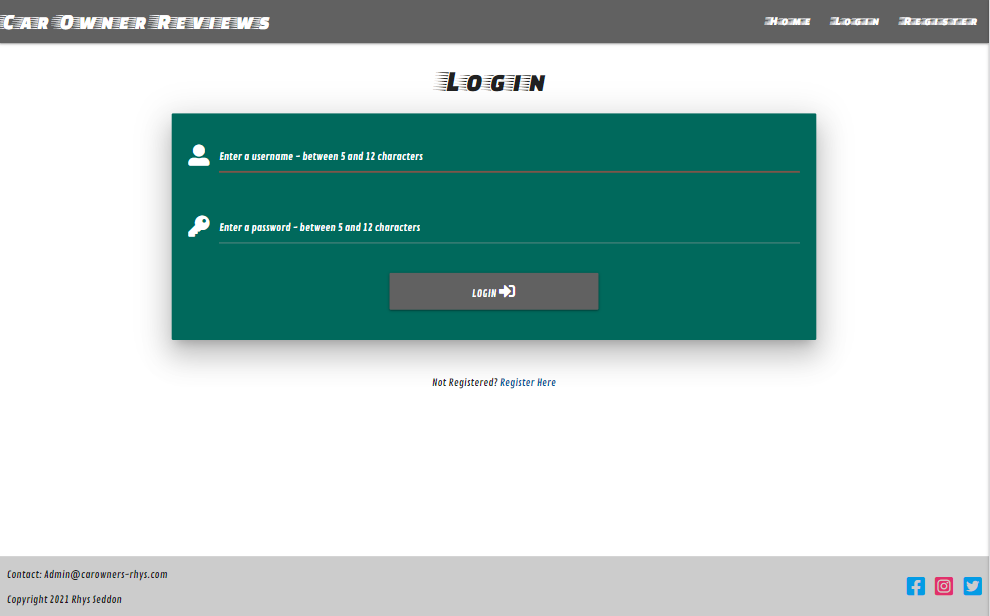
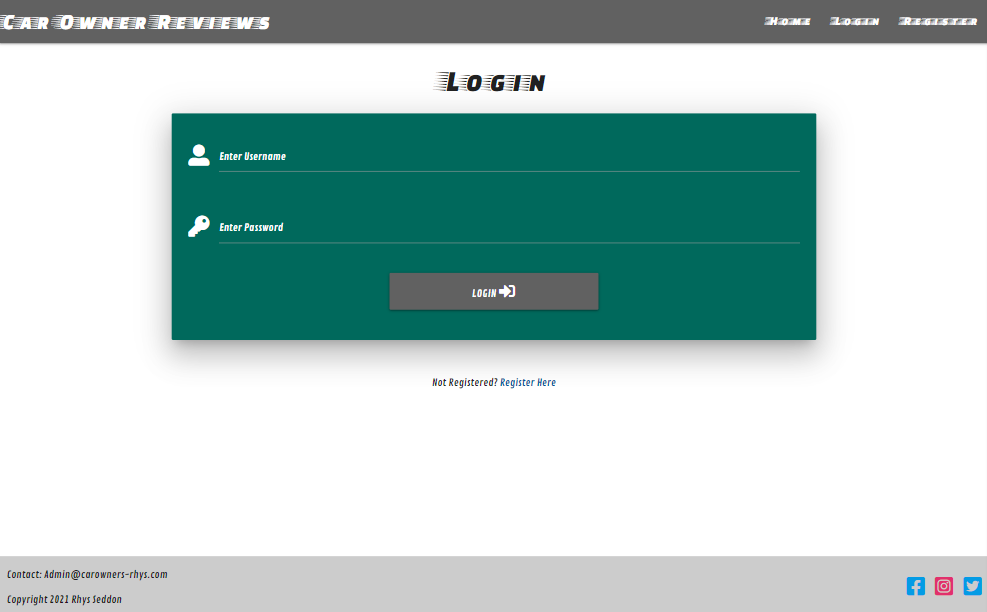
Add password confirmation information to README.md and TESTING.md

diff --git a/templates/register.html b/templates/register.html
@@ -12,7 +12,7 @@
                         <i class="fas fa-user-plus prefix white-text"></i>
                         <input id="username" name="username" type="text" minlength="5" maxlength="50"
                             pattern="^[a-zA-Z0-9@.]{5,50}$" class="validate" required>
-                        <label for="username" class="white-text">Enter new username</label>
+                        <label for="username" class="white-text">Enter New Username</label>
                     </div>
                 </div>
                 <!-- Password input -->
@@ -21,8 +21,8 @@
                         <i class="fas fa-key prefix white-text"></i>
                         <input id="password" name="password" type="password" minlength="5" maxlength="12"
                             pattern="^[a-zA-Z0-9]{5,12}$" class="validate" required>
-                        <label for="password" class="white-text">Enter password 5-12
-                            characters</label>
+                        <label for="password" class="white-text">Enter Password 5-12
+                            Characters</label>
                     </div>
                 </div>
                 <!-- Confirm password input -->
@@ -31,7 +31,7 @@
                         <i class="fas fa-key prefix white-text"></i>
                         <input id="confirm_password" name="confirm_password" type="password" minlength="5" maxlength="12"
                             pattern="^[a-zA-Z0-9]{5,12}$" class="validate" required>
-                        <label for="confirm_password" class="white-text">Confirm password</label>
+                        <label for="confirm_password" class="white-text">Confirm Password</label>
                     </div>
                 </div>
                 <!-- Register button -->

diff --git a/templates/login.html b/templates/login.html
@@ -12,7 +12,7 @@
                         <i class="fas fa-user-alt prefix white-text"></i>
                         <input id="username" name="username" type="text" minlength="5" maxlength="12"
                             pattern="^[a-zA-Z0-9]{5,12}$" class="validate" required>
-                        <label for="username" class="white-text">Enter username</label>
+                        <label for="username" class="white-text">Enter Username</label>
                     </div>
                 </div>
                 <!-- Password input -->
@@ -21,7 +21,7 @@
                         <i class="fas fa-key prefix white-text"></i>
                         <input id="password" name="password" type="password" minlength="5" maxlength="12"
                             pattern="^[a-zA-Z0-9]{5,12}$" class="validate" required>
-                        <label for="password" class="white-text">Enter password</label>
+                        <label for="password" class="white-text">Enter Password</label>
                     </div>
                 </div>
                 <!-- Login button -->

diff --git a/static/css/style.css b/static/css/style.css
@@ -86,16 +86,23 @@ footer .row {
 @media (max-width: 500px) {
 /* Styles brand logo in mobile view */
 nav .brand-logo {
-font-size: 1.3rem;
-}
-
-/* Styles small buttons in mobile view */
-.btn-small {
-    padding: 0px 5px;
+font-size: 1.8rem;
 }
 
 /* Styles footer content in mobile view */
 footer .row .col {
     padding: 0px 10px;
+}
+}
+
+/* Tablet view */
+@media (max-width: 1200px) {
+/* Styles nav titles in tablet view */
+nav .brand-logo {
+font-size: 1.6rem;
+}
+
+.nav-links li a {
+    font-size: 1rem
 }
 }

diff --git a/templates/base.html b/templates/base.html
@@ -23,9 +23,7 @@
     {% endblock %}
     <title>Car Owner Reviews</title>
 </head>
-
 <body>
-
     <header>
         <nav class="nav-extended grey darken-2">
             <!-- Navbar  -->

diff --git a/README.md b/README.md
@@ -61,9 +61,9 @@ The reason for creating this project is for my third milestone project for a sof
 ### Visiting users
 
 As a visiting user I want to:
--	"Instantly understand the purpose of the website"
+-	"Instantly understand the purpose of the website."
 -	"Be able to swiftly decipher site navigation."
--	"Find out how good a particular car is?"
+-	"Find out how good a particular car is."
 -	"Be able to register and become a member to post my own review."
 
 ### Returning users
@@ -72,24 +72,26 @@ As a returning user I would like to:
 -	"Be able to login and see my profile."
 -	"Be able to delete and edit my old reviews."
 -	"Write a new review."
--	"Be able to log back out again."
+-	"Be able to log out again."
 
 ### Admin users
 
 As an admin user I require the ability to:
 -   "Log in as an admin user."
 -   "Delete or edit all member reviews."
--   "Search all members reviews."
--   "Create, edit and delete the makes of the cars"
+-   "Search all member reviews."
+-   "Create, edit and delete the makes of the cars."
 
 # UX
 
 ## Strategy
 
-As the site owner my goal is to create a place for car owners to share their experience of owning a particular car and provide this information clearly to other users of the site.  To achieve this, I aim provide users with the ability to:
+As the site owner my goal is to create a place for car owners to share their experience of owning a particular car 
+and provide this information clearly to other users of the site.  To achieve this, 
+I aim to provide users with the ability to:
 -	Add their own reviews.
 -	Browse other users’ reviews.
--	Search other users’ reviews.
+-	Search other users’ reviews.  
 The target audience for the site will be:
 -	Users that want to inform everyone of how good or bad their car is.
 -	Users that are looking to buy a new car and require impartial information.
@@ -100,28 +102,28 @@ The target audience for the site will be:
 The user should:
 -	Be able to navigate the site easily.
 -	Expect the site to load quickly.
--	Read other users reviews.
+-	Read other user's reviews.
 -	Create, read, update and delete their own reviews.
 
 ## Scope
 
 Based upon the strategy the features and functionality I want to include are as follows:
--	Car related hero image
+-	Car related hero image.
 -	A paragraph welcoming the user and explaining the websites purpose.
 -	Ability to register, login and logout.
 -	A search box where the user can search for reviews.
 -	An accordion containing all the reviews so the user can browse through them.
--	An accordion containing the current profile owners’ reviews.
--	Ability for the user create, read, edit or delete their reviews.
--	A form for the user to fill out containing the make, model, year and review.
+-	An accordion containing the current profile owner's reviews.
+-	Ability for the user to create, read, edit or delete their reviews.
+-	A form for the user to fill out containing the make, model, year and review text.
 -	Ability for the user to rate the car from 0 to 5.
--	A form with the ability to edit make, model, year and review.
+-	A form with the ability to edit make, model, year and review text.
 -	A page containing all the makes with options to delete or edit them for the admin user.
 
 ## Database
 
-To enable create read update an delete functionality the website will require a non-relational data base (No SQL).
-The data base will have three collections:
+To enable create, read, update an delete functionality the website will require a non-relational data base (No SQL).
+The database will have three collections:
 
 ### Users
 
@@ -390,26 +392,26 @@ Functional and modern colour scheme, with a white background to keep clean UX.
 -	Page name on the left-hand side.
 -	Navigation links on the right-hand side.
 -	Navbar colour will be materialize class colour teal darken-2.
--	The navbar links will differ depending on if and who is logged in and on what page. (see each page)
+-	The navbar links will differ depending on if and who is logged in and on what page. (see each page).
 
 ### Footer
 
 -	All pages will contain the same footer.
--	Containing contact and copyright information on the left and social media links on the right.
+-	Footer contains contact and copyright information on the left and social media links on the right.
 
 ### Home Page
 
 -	Car related full width hero image at the top of the page.
 -	A paragraph welcoming the user and explaining the websites purpose with buttons to register and login below.
--	A search box with the title “search reviews”, where the user can search through all reviews.
+-	A search box with the title “Search Reviews”, where the user can search through all reviews.
 -	An accordion with the title “All Reviews” containing all the reviews so the user can browse through them.
 -	Each dropdown will have the title of the make and model of car and the year.
 -	Each dropdown will contain the information:
     * Make
     * Model
     * Year
-	* Review
-	* Rating out of 5.
+	* Review text
+	* Rating out of 5
 
 Nav Links:  
 Logged out – Home | Login | Register.  
@@ -418,15 +420,15 @@ Admin – Home | Profile | New Review | Manage Makes | Logout.
 
 ### Profile Page
 
--	Main title of Users Profile and below to the left “Your Reviews” 
--	Accordion containing the current profile owners’ reviews.
+-	Main title of User's Profile and below to the left “Your Reviews” 
+-	Accordion containing the current profile owner's reviews.
 -	Each dropdown will have the title of the make and model of car and the year.
 -	Each dropdown will contain the information:
     * Make
     * Model
     * Year
-	* Review
-	* Rating out of 5.
+	* Review text
+	* Rating out of 5
 -	Buttons so they can edit and delete their reviews on the accordion.
 -	Central button below that links to new review page.
 
@@ -441,7 +443,7 @@ Admin – Home | Profile | New Review | Manage Makes | Logout.
     *   A dropdown containing all the car makes for the user to select.
     *   Model input field.
     *   Year input field.
-    *   Review input field.
+    *   Review text input field.
     *	Input field for the user to rate the car from 0 to 5.
     *	A central save button below.
 
@@ -454,6 +456,7 @@ Admin – Home | Profile | New Review | Manage Makes | Logout.
 -	Title of “Login”
 -	Central container with 2 text boxes for the user to enter their username and password.
 -	Text boxes will have the labels username and password with suitable icons on the left of the labels.
+-   Users will be warned of incorrect username or password.
 -	Login button.
 -	A link to register if not already registered.
 
@@ -466,6 +469,9 @@ Logged out – Home | Login | Register.
 -	Central container with 2 text boxes for the user to enter their username and password.
 -	Text boxes will have the labels username and password with suitable icons on the left of the labels.
 -	Save button.
+-   Users will be warned if username is already taken.
+-   Users will be prompted to enter password twice.
+-   Users will be warned if passwords entered do not match.
 -	A link to login if already registered.
 
 Nav links:  
@@ -478,7 +484,7 @@ Logged out – Home | Login | Register.
     *   A dropdown containing all the car makes for the user to select.
     *   Model input field.
     *   Year input field.
-    *   Review input field.
+    *   Review text input field.
     *	Input field for the user to rate the car from 0 to 5.
     *	A central save and cancel button below.
 
@@ -489,11 +495,11 @@ Admin – Home | Profile | New Review | Manage Makes | Logout.
 
 ### Manage Makes Page (Admin Only)
 
--	Title of “Manage Makes"
--	Sub heading "Add New Make"
+-	Title of “Manage Makes".
+-	Sub heading "Add New Make".
 -   Central text input to insert a new make.
 -   Central "Save Make" button.
--   Sub Heading "Edit Make"
+-   Sub Heading "Edit Make".
 -   Card Panels containing all of the makes in the DB.
 -   Edit and delete button inside each card panel.
 
@@ -525,6 +531,11 @@ reviews accidentally.
 - The modal should contain the title "Are You Sure You Want To Delete?"
 - Centralised cancel and delete buttons.
 
+#### Password Confirmation
+
+- Users will be asked to enter their passwords twice upon registering to verify the password they entered 
+was entered correctly.
+
 ### Features To Add In The Future
 -	The ability to upload pictures to the profiles, these could be of the car or the user or both.
 -	Star rating system where user can click a radio button of stars 1 to 5. 
@@ -535,9 +546,9 @@ reviews accidentally.
 
 ### Languages 
 
-- Html: Used for the site structure.
+- HTML: Used for the site structure.
 - CSS: Used for adding styles to the website.
-- Javascript: Used to add the games interactive features.
+- Javascript: Used to add the website interactive features.
 - Python: Used to handle the backend functionality.
 
 ### Libraries
@@ -569,7 +580,7 @@ Input Fields | For add text user input
 
 #### JQuery
 
-Used for event handling and validating the choose make input on the new review form.
+Used for event handling and validating the "choose make" input on the new review form.
 
 ### IDE and Hosting
 
@@ -600,7 +611,7 @@ All used to help with the development of the backend of the website:
 - [Google.com/test/mobile-friendly](http://Search.google.com/test/mobile-friendly) - Used for testing the website mobile responsiveness.
 - Google Chrome DevTools - Used for testing website responsiveness.
 - [Randomkeygen.com](https://randomkeygen.com/) - Used for generating a random secret key.
-- [Pep8online.com/](http://pep8online.com/) - Used for validating python code.
+- [Pep8online.com/](http://pep8online.com/) - Used for validating Python code.
 
 ## Testing
 For the testing page [(click Here)](TESTING.md)
@@ -611,7 +622,7 @@ All names should be relevant and as consistent as possible to enable the reader 
 - Javacript functions are written in camelCase. 
 - Class and IDs are written in lowercase and multi word names are joined with a hyphen.
 - File names and image names are written in lowercase and multi word names are joined with a hyphen.
-- Multi word Python function and variable news are joined with an underscore. 
+- Multi word Python function and variable names are joined with an underscore. 
 
 ### Code Validation
 
@@ -715,7 +726,7 @@ The live Heroku deployment can be found [Here](https://car-owner-reviews-ms3-pro
 
 ### Acknowledgements
 
-- Friends and family for their honest opinions and checking responsiveness on there devices.
+- Friends and family for their honest opinions and checking responsiveness on their devices.
 - Code Institute Slack Channel for valuable guidance and opinions.
 - Mentor Rohit Sharma for his excellent guidance and advice.
 

diff --git a/TESTING.md b/TESTING.md
@@ -190,8 +190,9 @@ Display:
 - Must retain the basic layout and remain responsive on all screen sizes.
 - Must have the central title "REGISTER"
 - Central card panel form should display.
-- Username input with icon and placeholder "Please enter a username - between 5 and 12 characters"  
-- Password input with icon and placeholder "Please enter a password - between 5 and 12 characters"
+- Username input with icon and placeholder "Enter New Username"  
+- Password input with icon and placeholder "Enter Password 5 - 12 Characters"
+- Confirm Password input with icon and placeholder "Confirm Password"
 - Central "REGISTER" button.
 - Below card panel centrally must read "Already Registered? Login Here" and the "Login Here" text 
 must display as a link.  
@@ -206,7 +207,13 @@ must display as a link.
 
 Functionality:
 
-- The username and password input fields must only allow 12 characters to be entered.
+- The username input fields must only allow 50 characters to be entered.
+- The username input fields must only allow numbers, letters, @ and full stop characters to be entered.
+- The username entered already exists in the database a flash message must appear with "USERNAME ALREADY TAKEN".  
+![Image](static/assets/images/readme-images/taken-username-screenshot.png)
+- The password input fields must only allow between 5 and 12 numbers or letters to be entered.
+- If the entered passwords do not match in both password fields a flash message must appear "PASSWORDS DO NOT MATCH".  
+![Image](static/assets/images/readme-images/password-match-screenshot.png)
 - If less than 5 characters are entered the below line must turn red and when the 
 register button is selected a warning will appear that reads: "Please match the format requested".
 - If both fields are correctly completed the below lines will turn green, the user will be
@@ -223,13 +230,13 @@ Display:
 - Must retain the basic layout and remain responsive on all screen sizes.
 - Must have the central title "LOGIN"
 - Central card panel form must display.
-- Username input with icon and placeholder "Please enter a username - between 5 and 12 characters"  
-- Password input with icon and placeholder "Please enter a password - between 5 and 12 characters"
+- Username input with icon and placeholder "Enter Username"  
+- Password input with icon and placeholder "Enter Password"
 - Central "LOGIN" button.
 - Below card panel centrally must read "Not Registered? Register Here" and the "Register Here" text 
 must display as a link.  
 
- <details>
+<details>
 <summary>Login Screenshot (Click for image)</summary>
 <p align="center">
 
@@ -242,6 +249,9 @@ Functionality:
 - The username and password input fields must only allow 12 characters to be entered.
 - If less than 5 characters are entered the below line must turn red and when the 
 login button is selected a warning will appear that reads: "Please match the format requested".
+- If the username or password is entered incorrectly a flash message must appear with:
+"INCORRECT USERNAME AND/OR PASSWORD"  
+![Image](static/assets/images/readme-images/incorrect-screenshot.png)
 - If both fields are correctly completed the below lines will turn green, the user will be
 redirected to the profile page and a flash message must appear: "WELCOME *username*"  
 ![Image](static/assets/images/readme-images/welcome-profile-screenshot.png)
